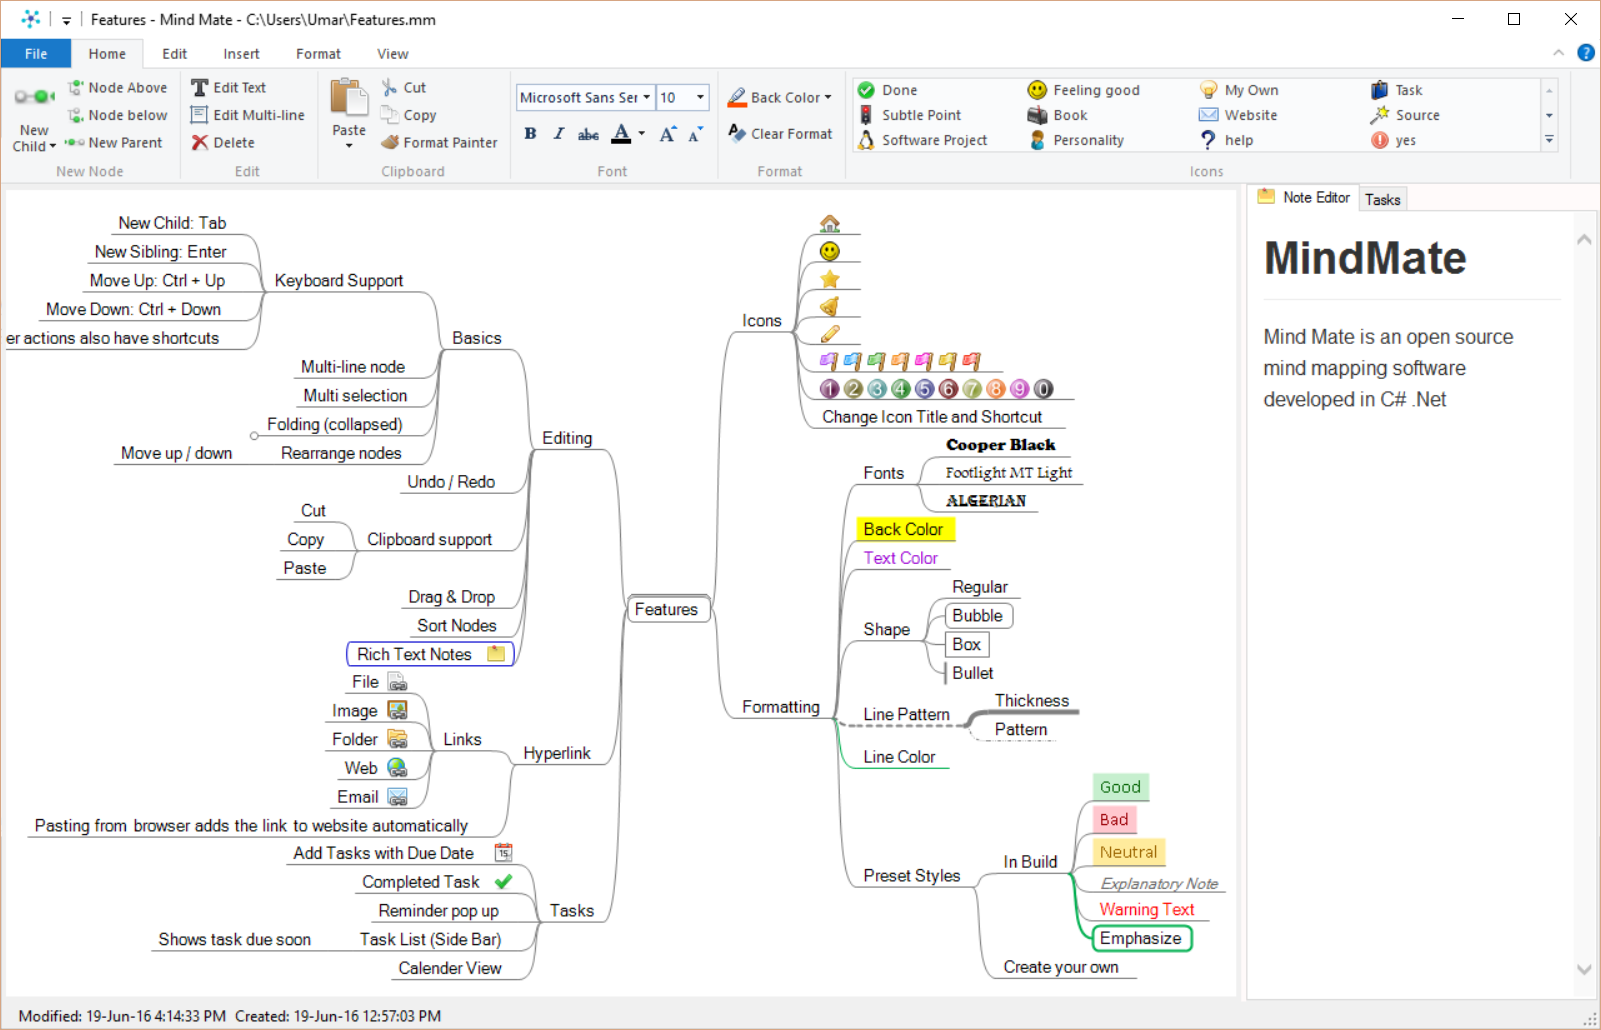
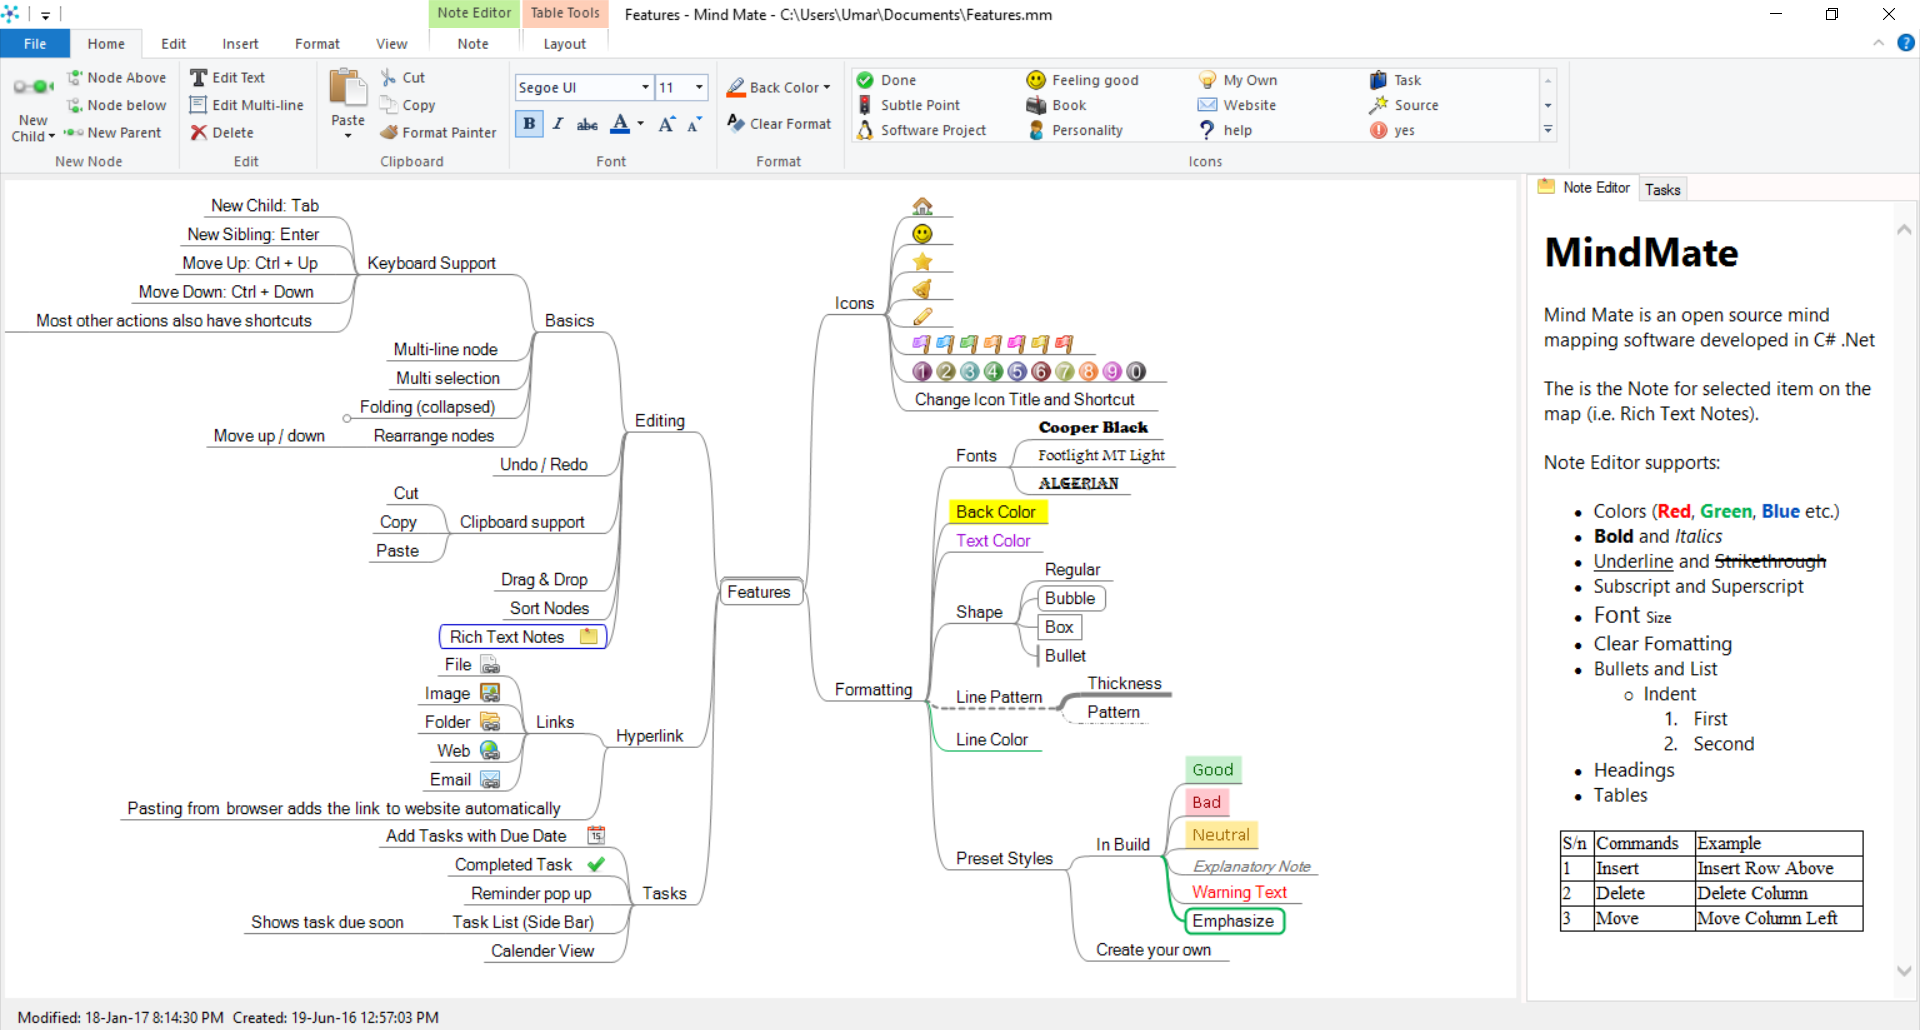
Bump up version to 0.4

diff --git a/Miscellaneous/Docs/Features.mm b/Miscellaneous/Docs/Features.mm
@@ -1,0 +1,39 @@
+<map version="0.9.0"><attribute_registry><attribute_name NAME="Due Date" VISIBLE="True" RESTRICTED="False" TYPE="System" DATATYPE="DateTime" LISTOPTION="NoList" /><attribute_name NAME="Task Status" VISIBLE="True" RESTRICTED="False" TYPE="System" DATATYPE="DateTime" LISTOPTION="NoList" /><attribute_name NAME="Completion Date" VISIBLE="True" RESTRICTED="False" TYPE="System" DATATYPE="DateTime" LISTOPTION="NoList" /></attribute_registry><node TEXT="Features" CREATED="1466337735180" MODIFIED="1466351478067"><node POSITION="right" TEXT="Icons" CREATED="1466337989285" MODIFIED="1466343375802"><node TEXT="" CREATED="1466343297209" MODIFIED="1466343300953"><icon BUILTIN="gohome" /></node><node TEXT="" CREATED="1466343274449" MODIFIED="1466343278567"><icon BUILTIN="ksmiletris" /></node><node TEXT="" CREATED="1466343309705" MODIFIED="1466343318004"><icon BUILTIN="bookmark" /></node><node TEXT="" CREATED="1466343319548" MODIFIED="1466343323012"><icon BUILTIN="bell" /></node><node TEXT="" CREATED="1466343324026" MODIFIED="1466343328004"><icon BUILTIN="pencil" /></node><node TEXT="" CREATED="1466343328940" MODIFIED="1466343373415"><icon BUILTIN="flag-black" /><icon BUILTIN="flag-blue" /><icon BUILTIN="flag-green" /><icon BUILTIN="flag-orange" /><icon BUILTIN="flag-pink" /><icon BUILTIN="flag-yellow" /><icon BUILTIN="flag" /></node><node TEXT="" CREATED="1466343375802" MODIFIED="1466343388173"><icon BUILTIN="full-1" /><icon BUILTIN="full-2" /><icon BUILTIN="full-3" /><icon BUILTIN="full-4" /><icon BUILTIN="full-5" /><icon BUILTIN="full-6" /><icon BUILTIN="full-7" /><icon BUILTIN="full-8" /><icon BUILTIN="full-9" /><icon BUILTIN="full-0" /></node><node TEXT="Change Icon Title and Shortcut" CREATED="1466338209080" MODIFIED="1466344640027" /></node><node POSITION="right" TEXT="Formatting" CREATED="1466337993731" MODIFIED="1466338440563"><node TEXT="Fonts" CREATED="1466338372506" MODIFIED="1466343452663"><node TEXT="Cooper Black" CREATED="1466343412946" MODIFIED="1466343422415"><font NAME="Cooper Black" /></node><node TEXT="Footlight MT Light" CREATED="1466343426159" MODIFIED="1466343451509"><font NAME="Footlight MT Light" /></node><node TEXT="Algerian" CREATED="1466343452663" MODIFIED="1466343840414"><font NAME="Algerian" /></node></node><node TEXT="Back Color" CREATED="1466338382193" MODIFIED="1466344665065" BACKGROUND_COLOR="#FFFF00" /><node TEXT="Text Color" CREATED="1466338390118" MODIFIED="1466344673848" COLOR="#9B00D3" /><node TEXT="Shape" CREATED="1466338395765" MODIFIED="1466344818194"><node TEXT="Regular" CREATED="1466344687763" MODIFIED="1466344689916" /><node TEXT="Bubble" CREATED="1466344681617" MODIFIED="1466344697435" STYLE="bubble" /><node TEXT="Box" CREATED="1466344685252" MODIFIED="1466344701413" STYLE="box" /><node TEXT="Bullet" CREATED="1466344705719" MODIFIED="1466344711023" STYLE="bullet" /></node><node TEXT="Line Pattern" CREATED="1466338406030" MODIFIED="1466344803156"><edge WIDTH="2" PATTERN="dash" /><node TEXT="Thickness" CREATED="1466344798257" MODIFIED="1466344826430"><edge WIDTH="4" /></node><node TEXT="Pattern" CREATED="1466344803156" MODIFIED="1466344832468"><edge PATTERN="dashdotdot" /></node></node><node TEXT="Line Color" CREATED="1466338440563" MODIFIED="1466344764297"><edge COLOR="#00B050" /></node><node TEXT="Preset Styles" CREATED="1466338007443" MODIFIED="1466338156508"><node TEXT="In Build" CREATED="1466338034547" MODIFIED="1466341090176"><node TEXT="Good" CREATED="1466341066121" MODIFIED="1466341102141" BACKGROUND_COLOR="#C6EFCE" COLOR="#006100"><font NAME="Calibri" SIZE="11" /></node><node TEXT="Bad" CREATED="1466341068508" MODIFIED="1466341105402" BACKGROUND_COLOR="#FFC7CE" COLOR="#9C0006"><font NAME="Calibri" SIZE="11" /></node><node TEXT="Neutral" CREATED="1466341070785" MODIFIED="1466341108303" BACKGROUND_COLOR="#FFEB9C" COLOR="#9C6500"><font NAME="Calibri" SIZE="11" /></node><node TEXT="Explanatory Note" CREATED="1466341077462" MODIFIED="1466341112827" COLOR="#666666"><font ITALIC="true" SIZE="9" /></node><node TEXT="Warning Text" CREATED="1466341086729" MODIFIED="1466341117741" COLOR="#FF0000" /><node TEXT="Emphasize" CREATED="1466341090176" MODIFIED="1466341120534" STYLE="bubble"><edge COLOR="#00B050" WIDTH="2" /></node></node><node TEXT="Create your own" CREATED="1466338156508" MODIFIED="1466338163778" /></node></node><node POSITION="left" TEXT="Editing" CREATED="1466338307469" MODIFIED="1466341023627"><node TEXT="Basics" CREATED="1466338720913" MODIFIED="1466338890146"><node TEXT="Keyboard Support" CREATED="1466337981360" MODIFIED="1466339140466"><node TEXT="New Child: Tab" CREATED="1466338896979" MODIFIED="1466338909567" /><node TEXT="New Sibling: Enter" CREATED="1466338921610" MODIFIED="1466338926945" /><node TEXT="Move Up: Ctrl + Up" CREATED="1466338931312" MODIFIED="1466338942606" /><node TEXT="Move Down: Ctrl + Down" CREATED="1466338945289" MODIFIED="1466338956520" /><node TEXT="Most other actions also have shortcuts" CREATED="1466338963789" MODIFIED="1466339048962"><node TEXT="See menu tooltips" CREATED="1466339048962" MODIFIED="1466339074186" /></node></node><node TEXT="Multi-line node" CREATED="1466338336485" MODIFIED="1466338344176" /><node TEXT="Multi selection" CREATED="1466338520110" MODIFIED="1466338528331" /><node FOLDED="true" TEXT="Folding (collapsed)" CREATED="1466338666891" MODIFIED="1466338690821"><node TEXT="Child 1" CREATED="1466338673287" MODIFIED="1466338676048" /></node><node TEXT="Rearrange nodes" CREATED="1466338782049" MODIFIED="1466338791517"><node TEXT="Move up / down" CREATED="1466338791517" MODIFIED="1466338798037" /></node></node><node TEXT="Undo / Redo" CREATED="1466338311993" MODIFIED="1466338319154" /><node TEXT="Clipboard support" CREATED="1466338355346" MODIFIED="1466338602088"><node TEXT="Cut" CREATED="1466338592447" MODIFIED="1466338595521" /><node TEXT="Copy" CREATED="1466338595723" MODIFIED="1466338601542" /><node TEXT="Paste" CREATED="1466338602088" MODIFIED="1466338603633" /></node><node TEXT="Drag &amp; Drop" CREATED="1466338768696" MODIFIED="1466338773329" /><node TEXT="Sort Nodes" CREATED="1466339144943" MODIFIED="1466339147875" /><node TEXT="Rich Text Notes" CREATED="1466341023627" MODIFIED="1484770470437"><richcontent TYPE="NOTE">&lt;H1&gt;&lt;FONT face="Segoe UI"&gt;MindMate&lt;/FONT&gt;&lt;/H1&gt;
+&lt;P&gt;&lt;FONT style="FONT-SIZE: 11pt" face="Segoe UI"&gt;Mind Mate is an open source mind mapping software developed in C# .Net&lt;/FONT&gt;&lt;/P&gt;
+&lt;P&gt;&lt;FONT style="FONT-SIZE: 11pt" face="Segoe UI"&gt;The is the Note for selected item on the map (i.e. Rich Text Notes).&lt;/FONT&gt;&lt;/P&gt;
+&lt;P&gt;&lt;FONT style="FONT-SIZE: 11pt" face="Segoe UI"&gt;Note Editor supports:&lt;/FONT&gt;&lt;/P&gt;
+&lt;UL&gt;&lt;FONT face="Segoe UI"&gt;&lt;SPAN style="FONT-SIZE: 11pt"&gt;
+&lt;LI&gt;&lt;FONT face="Segoe UI"&gt;Colors (&lt;FONT color=red&gt;&lt;STRONG&gt;Red&lt;/STRONG&gt;&lt;/FONT&gt;, &lt;STRONG&gt;&lt;FONT color=#00b050&gt;Green&lt;/FONT&gt;&lt;/STRONG&gt;, &lt;FONT color=#004dbb&gt;&lt;STRONG&gt;Blue&lt;/STRONG&gt;&lt;/FONT&gt; etc.)&lt;/FONT&gt;&lt;/LI&gt;
+&lt;LI&gt;&lt;FONT face="Segoe UI"&gt;&lt;STRONG&gt;Bold&lt;/STRONG&gt;&amp;nbsp;and &lt;EM&gt;Italics&lt;/EM&gt;&lt;/FONT&gt;&lt;/LI&gt;
+&lt;LI&gt;&lt;FONT face="Segoe UI"&gt;&lt;U&gt;Underline&lt;/U&gt; and&lt;EM&gt; &lt;/EM&gt;&lt;STRIKE&gt;Strikethrough&lt;/STRIKE&gt;&lt;/FONT&gt;&lt;/LI&gt;
+&lt;LI&gt;&lt;FONT face="Segoe UI"&gt;Subscript and Superscript&lt;/FONT&gt;&lt;/LI&gt;&lt;/SPAN&gt;&lt;/FONT&gt;
+&lt;LI&gt;&lt;FONT face="Segoe UI"&gt;&lt;SPAN&gt;&lt;FONT face="Segoe UI"&gt;&lt;SPAN style="FONT-SIZE: 12pt"&gt;&lt;FONT style="FONT-SIZE: 14pt" face="Segoe UI"&gt;&lt;SPAN&gt;&lt;FONT face="Segoe UI"&gt;Font&lt;/FONT&gt;&lt;/SPAN&gt; &lt;/FONT&gt;&lt;/SPAN&gt;&lt;/FONT&gt;&lt;/SPAN&gt;&lt;SPAN style="FONT-SIZE: 9pt"&gt;Size&lt;/SPAN&gt;&lt;/FONT&gt;&lt;/LI&gt;&lt;SPAN style="FONT-SIZE: 12pt"&gt;&lt;SPAN style="FONT-SIZE: 12pt"&gt;&lt;SPAN style="FONT-SIZE: 12pt"&gt;&lt;FONT face="Segoe UI"&gt;&lt;SPAN style="FONT-SIZE: 11pt"&gt;
+&lt;LI&gt;&lt;SPAN style="FONT-SIZE: 12pt"&gt;&lt;SPAN style="FONT-SIZE: 12pt"&gt;&lt;SPAN style="FONT-SIZE: 12pt"&gt;&lt;FONT face="Segoe UI"&gt;Clear Fomatting&lt;/FONT&gt;&lt;/SPAN&gt;&lt;/SPAN&gt;&lt;/SPAN&gt;&lt;/LI&gt;
+&lt;LI&gt;&lt;SPAN style="FONT-SIZE: 12pt"&gt;&lt;SPAN style="FONT-SIZE: 12pt"&gt;&lt;SPAN style="FONT-SIZE: 12pt"&gt;&lt;FONT style="FONT-SIZE: 11pt" face="Segoe UI"&gt;Bullets and List&lt;/FONT&gt;&lt;/SPAN&gt;&lt;/SPAN&gt;&lt;/SPAN&gt;&lt;/LI&gt;
+&lt;UL&gt;
+&lt;LI&gt;&lt;SPAN style="FONT-SIZE: 12pt"&gt;&lt;SPAN style="FONT-SIZE: 12pt"&gt;&lt;SPAN style="FONT-SIZE: 12pt"&gt;&lt;/SPAN&gt;&lt;/SPAN&gt;&lt;/SPAN&gt;&lt;SPAN style="FONT-SIZE: 12pt"&gt;&lt;SPAN style="FONT-SIZE: 12pt"&gt;&lt;SPAN style="FONT-SIZE: 12pt"&gt;&lt;FONT style="FONT-SIZE: 11pt" face="Segoe UI"&gt;Indent&lt;/FONT&gt;&lt;/SPAN&gt;&lt;/SPAN&gt;&lt;/SPAN&gt;&lt;/LI&gt;&lt;/UL&gt;
+&lt;OL&gt;
+&lt;OL style="FONT-SIZE: 11pt"&gt;
+&lt;LI&gt;&lt;SPAN&gt;&lt;SPAN&gt;&lt;SPAN&gt;&lt;FONT face="Segoe UI"&gt;First&lt;/FONT&gt;&lt;/SPAN&gt;&lt;/SPAN&gt;&lt;/SPAN&gt;&lt;/LI&gt;
+&lt;LI&gt;&lt;SPAN&gt;&lt;SPAN&gt;&lt;SPAN&gt;&lt;FONT face="Segoe UI"&gt;Second&lt;/FONT&gt;&lt;/SPAN&gt;&lt;/SPAN&gt;&lt;/SPAN&gt;&lt;/LI&gt;&lt;/OL&gt;&lt;/OL&gt;&lt;SPAN style="FONT-SIZE: 12pt"&gt;&lt;SPAN style="FONT-SIZE: 12pt"&gt;&lt;SPAN style="FONT-SIZE: 12pt"&gt;&lt;FONT face="Segoe UI"&gt;&lt;SPAN style="FONT-SIZE: 11pt"&gt;
+&lt;LI&gt;&lt;SPAN style="FONT-SIZE: 12pt"&gt;&lt;SPAN style="FONT-SIZE: 12pt"&gt;&lt;SPAN style="FONT-SIZE: 12pt"&gt;&lt;FONT face="Segoe UI"&gt;Headings&lt;/FONT&gt;&lt;/SPAN&gt;&lt;/SPAN&gt;&lt;/SPAN&gt;&lt;/LI&gt;
+&lt;LI&gt;&lt;SPAN&gt;&lt;SPAN&gt;&lt;SPAN&gt;&lt;FONT face="Segoe UI"&gt;Tables&lt;/FONT&gt;&lt;/SPAN&gt;&lt;/SPAN&gt;&lt;/SPAN&gt;&lt;/LI&gt;&lt;/SPAN&gt;&lt;/FONT&gt;&lt;/SPAN&gt;&lt;/SPAN&gt;&lt;/SPAN&gt;&lt;/SPAN&gt;&lt;/FONT&gt;&lt;/SPAN&gt;&lt;/SPAN&gt;&lt;/SPAN&gt;&lt;/UL&gt;
+&lt;P&gt;&lt;SPAN style="FONT-SIZE: 12pt"&gt;&lt;SPAN style="FONT-SIZE: 12pt"&gt;&lt;SPAN style="FONT-SIZE: 12pt"&gt;
+&lt;TABLE cellSpacing=0 cols=3 cellPadding=1 width="90%" align=center border=1&gt;
+&lt;TBODY style="FONT-SIZE: 11pt"&gt;
+&lt;TR&gt;
+&lt;TD&gt;S/n&lt;/TD&gt;
+&lt;TD&gt;Commands&lt;/TD&gt;
+&lt;TD&gt;Example&lt;/TD&gt;&lt;/TR&gt;
+&lt;TR&gt;
+&lt;TD&gt;1&lt;/TD&gt;
+&lt;TD&gt;Insert&lt;/TD&gt;
+&lt;TD&gt;Insert Row Above&lt;/TD&gt;&lt;/TR&gt;
+&lt;TR&gt;
+&lt;TD&gt;2&lt;/TD&gt;
+&lt;TD&gt;Delete&lt;/TD&gt;
+&lt;TD&gt;Delete Column&lt;/TD&gt;&lt;/TR&gt;
+&lt;TR&gt;
+&lt;TD&gt;3&lt;/TD&gt;
+&lt;TD&gt;Move&lt;/TD&gt;
+&lt;TD&gt;Move Column Left&lt;/TD&gt;&lt;/TR&gt;&lt;/TBODY&gt;&lt;/TABLE&gt;&lt;/SPAN&gt;&lt;/SPAN&gt;&lt;/SPAN&gt;&lt;/P&gt;</richcontent></node></node><node POSITION="left" TEXT="Hyperlink" CREATED="1466339184408" MODIFIED="1466339436533"><node TEXT="Links" CREATED="1466339204703" MODIFIED="1466339429809"><node TEXT="File" CREATED="1466339218945" MODIFIED="1466339241580" LINK="C:\Users\ad1008369\Documents\Personal\Privileged Account Form.pdf" /><node TEXT="Image" CREATED="1466339246229" MODIFIED="1466339398610" LINK="C:\image.jpg" /><node TEXT="Folder" CREATED="1466339267523" MODIFIED="1466339408079" LINK="C:\Folder" /><node TEXT="Web" CREATED="1466339322764" MODIFIED="1466339348036" LINK="http://www.yahoo.com" /><node TEXT="Email" CREATED="1466339368565" MODIFIED="1466339386302" LINK="mailto:mail@umaranis.com" /></node><node TEXT="Pasting from browser adds the link to website automatically" CREATED="1466339436533" MODIFIED="1466339465720" /></node><node POSITION="left" TEXT="Tasks" CREATED="1466339492567" MODIFIED="1466343187304"><node TEXT="Add Tasks with Due Date" CREATED="1466339518541" MODIFIED="1466339528291"><attribute NAME="Due Date" VALUE="06/20/2016 13:30:00" /><attribute NAME="Task Status" VALUE="Open" /></node><node TEXT="Completed Task" CREATED="1466343187304" MODIFIED="1466343190283"><attribute NAME="Completion Date" VALUE="06/19/2016 13:33:15" /><attribute NAME="Task Status" VALUE="Complete" /></node><node TEXT="Reminder pop up" CREATED="1466339548196" MODIFIED="1466339553469" /><node TEXT="Task List (Side Bar)" CREATED="1466339554265" MODIFIED="1466339565559"><node TEXT="Shows task due soon" CREATED="1466339565559" MODIFIED="1466339591112" /></node><node TEXT="Calender View" CREATED="1466341014079" MODIFIED="1466341017823" /></node></node></map>

diff --git a/MindMate/Properties/AssemblyInfo.cs b/MindMate/Properties/AssemblyInfo.cs
@@ -1,5 +1,5 @@
 /* Author: Syed Umar Anis (mail@umaranis.com)                    
- * Copyright (c) 2016 Syed Umar Anis                             
+ * Copyright (c) 2017 Syed Umar Anis                             
  * This software is licensedd under MIT license (see LICENSE.txt)    
  */
 
@@ -15,7 +15,7 @@ using System.Runtime.InteropServices;
 [assembly: AssemblyConfiguration("")]
 [assembly: AssemblyCompany("www.umaranis.com")]
 [assembly: AssemblyProduct("Mind Mate")]
-[assembly: AssemblyCopyright("Copyright © 2016 Syed Umar Anis")]
+[assembly: AssemblyCopyright("Copyright © 2017 Syed Umar Anis")]
 [assembly: AssemblyTrademark("")]
 [assembly: AssemblyCulture("")]
 
@@ -37,5 +37,5 @@ using System.Runtime.InteropServices;
 // You can specify all the values or you can default the Build and Revision Numbers 
 // by using the '*' as shown below:
 // [assembly: AssemblyVersion("1.0.*")]
-[assembly: AssemblyVersion("0.3.*")]
+[assembly: AssemblyVersion("0.4.*")]
 //[assembly: AssemblyFileVersion("0.0.*")]

diff --git a/MindMate.Win7/Properties/AssemblyInfo.cs b/MindMate.Win7/Properties/AssemblyInfo.cs
@@ -10,7 +10,7 @@ using System.Runtime.InteropServices;
 [assembly: AssemblyConfiguration("")]
 [assembly: AssemblyCompany("mail@umaranis.com")]
 [assembly: AssemblyProduct("Mind Mate")]
-[assembly: AssemblyCopyright("Copyright © 2016 Syed Umar Anis")]
+[assembly: AssemblyCopyright("Copyright © 2017 Syed Umar Anis")]
 [assembly: AssemblyTrademark("")]
 [assembly: AssemblyCulture("")]
 
@@ -32,5 +32,5 @@ using System.Runtime.InteropServices;
 // You can specify all the values or you can default the Build and Revision Numbers 
 // by using the '*' as shown below:
 // [assembly: AssemblyVersion("1.0.*")]
-[assembly: AssemblyVersion("0.3.*")]
+[assembly: AssemblyVersion("0.4.*")]
 //[assembly: AssemblyFileVersion("1.0.0.0")]
